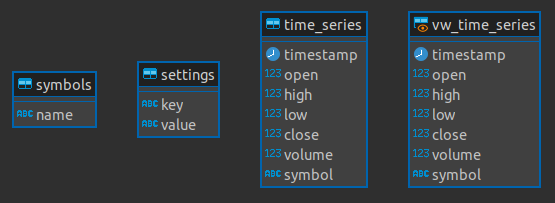
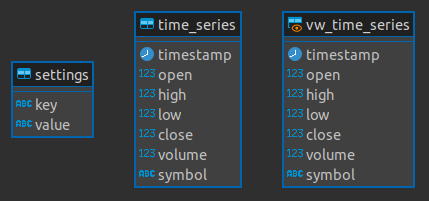
db refactoring

Changed region(s): [[0.0, 0.0299, 1.0, 0.9552]]

diff --git a/airflow/currency_market_analysis_dag.py b/airflow/currency_market_analysis_dag.py
@@ -30,15 +30,13 @@ def read_settings():
             interval_minutes = s[1]
         if s[0] == 'jar_path':
             jar_path = s[1]
+        if s[0] == 'symbols':
+            symbols = s[1]
 
-    result = client.execute('SELECT name FROM de.symbols')
-    symbols = []
-    for t in result:
-        symbols.append(t[0])
     return {
         "interval_minutes": interval_minutes,
         "jar_path": jar_path,
-        "symbols": ",".join(symbols)
+        "symbols": symbols
     }
 
 

diff --git a/README.md b/README.md
@@ -62,7 +62,6 @@ https://www.alphavantage.co/
 
 
 ## Структура БД
-- **symbols** - таблица с валютами и акциями
 - **time_series** - таблица с каждодневной информацией
 - **vw_time_series** - представление с уникальными строками из time_series
 - **settings** - различные настройки приложения
